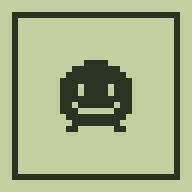
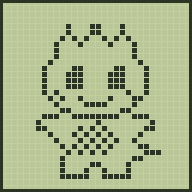
Add files via upload

diff --git a/pet.js b/pet.js
@@ -1,50 +1,153 @@
 'use strict';
-// Bichinhos em pixel art 12x12, desenhados em canvas (sem imagens externas).
-// Clássico: um só tom (cor do tema). Moderno: colorido, com paleta lida das variáveis --m-* do style.css.
+// Sprites e funções de desenho do TamaTask.
+//  - CLÁSSICO: LCD de pontos (24x26 para o bichinho, 18x22 para o ovo). '#' = aceso, '+' = meio-tom, '.' = apagado.
+//  - MODERNO: pixel art colorida (12x12). Letras = cores da paleta --m-* do style.css.
 (() => {
-  const CLASSICO = [
-    '....####....', '..########..', '.##########.', '############', '###.####.###', '###.####.###',
-    '############', '##.######.##', '###......###', '.##########.', '..########..', '.##......##.'
+  /* ===== CLÁSSICO (pode editar os desenhos à mão) ===== */
+  const C_PET = [
+    '.......#...##...#.......',
+    '.......#...##...#.......',
+    '......#.#.#..#.#.#......',
+    '.....#...#....#...#.....',
+    '.....#............#.....',
+    '.....#............#.....',
+    '....#..............#....',
+    '...#....##.....##...#...',
+    '...#...###....###...#...',
+    '...#...###....###...#...',
+    '...#...###....###...#...',
+    '...#.++..........++.#...',
+    '....#++..#....#..++#....',
+    '.....#....####....#.....',
+    '......##........##......',
+    '...###..########..###...',
+    '..#........++........#..',
+    '..##.....++++++.....##..',
+    '....#...++++++++...#....',
+    '.....#..++++++++..#.....',
+    '......#.++++++++...##...',
+    '.......#.++++++.....###.',
+    '......#...........##....',
+    '......#....##....#......',
+    '......#...#..#...#......',
+    '......#####..#####......'
   ];
-  // k = corpo escuro, c = rosto creme, e = olhos/boca, p = bochechas, y = amarelo (orelhas por dentro, pezinhos)
-  const MODERNO = [
+  const C_PET_PISCA = [
+    '.......#...##...#.......',
+    '.......#...##...#.......',
+    '......#.#.#..#.#.#......',
+    '.....#...#....#...#.....',
+    '.....#............#.....',
+    '.....#............#.....',
+    '....#..............#....',
+    '...#................#...',
+    '...#................#...',
+    '...#...###....###...#...',
+    '...#................#...',
+    '...#.++..........++.#...',
+    '....#++..#....#..++#....',
+    '.....#....####....#.....',
+    '......##........##......',
+    '...###..########..###...',
+    '..#........++........#..',
+    '..##.....++++++.....##..',
+    '....#...++++++++...#....',
+    '.....#..++++++++..#.....',
+    '......#.++++++++...##...',
+    '.......#.++++++.....###.',
+    '......#...........##....',
+    '......#....##....#......',
+    '......#...#..#...#......',
+    '......#####..#####......'
+  ];
+  const C_OVO = [
+    '..................',
+    '......######......',
+    '.....#......#.....',
+    '....#........#....',
+    '...#..........#...',
+    '...#..........#...',
+    '..#............#..',
+    '..#..##....##..#..',
+    '.#...##....##...#.',
+    '.#..............#.',
+    '.#..............#.',
+    '.#..............#.',
+    '.##.#.#.#.#.#.#.#.',
+    '.#.#.#.#.#.#.#.##.',
+    '.#..............#.',
+    '.#..............#.',
+    '.#..##.....##...#.',
+    '..#.##.....##..#..',
+    '..#............#..',
+    '...##........##...',
+    '.....###..###.....',
+    '........##........'
+  ];
+  const C_RACHA = [[9, 5], [8, 6], [9, 7], [10, 8], [9, 9], [8, 10], [9, 11], [10, 12], [9, 13]];
+
+  /* ===== MODERNO ===== */
+  // k = corpo escuro, c = rosto creme, e = olhos/boca, p = bochechas, y = amarelo, w = brilho
+  const M_PET = [
     '..kk....kk..', '.kyyk..kyyk.', '.kkkkkkkkkk.', 'kkkkkkkkkkkk', 'kkcccccccckk', 'kcceccccecck',
     'kcceccccecck', 'kcpccccccpck', 'kkccceeccckk', '.kkccccccck.', '..kkkkkkkk..', '..yy....yy..'
   ];
-  const OVO_MODERNO = [
+  const M_OVO = [
     '...kkkk...', '..kyyyyk..', '.kyyyyyyk.', '.kywyyyyk.', 'kyyyyyyyyk', 'kypyyyyyyk',
     'kyyyyyypyk', 'kyyyyyyyyk', '.kyypyyyk.', '.kyyyyyyk.', '..kyyyyk..', '...kkkk...'
   ];
-  window.TAMA_SPRITE = CLASSICO;                         // usado pelo ovo clássico
-  window.TAMA_MODERNO = { pet: MODERNO, ovo: OVO_MODERNO };
-  window.tamaModerno = () => document.documentElement.dataset.tema === 'moderno';
-  window.tamaCor = () => getComputedStyle(document.documentElement).getPropertyValue('--pet').trim() || '#2b3322';
-  window.tamaCores = () => {
-    const cs = getComputedStyle(document.documentElement);
-    const g = (v, d) => cs.getPropertyValue(v).trim() || d;
-    return { k: g('--m-k', '#2d2a55'), e: g('--m-e', '#14122b'), c: g('--m-c', '#fff1cf'),
-             y: g('--m-y', '#ffd95a'), p: g('--m-p', '#ff8f8f'), w: '#ffffff' };
+  const M_RACHA = [[5, 2], [4, 3], [5, 4], [4, 5], [5, 6], [6, 7], [5, 8], [6, 9]];
+
+  const raiz = document.documentElement;
+  const TAMA = window.TAMA = {
+    mod: () => raiz.dataset.tema === 'moderno',
+    cor: () => getComputedStyle(raiz).getPropertyValue('--pet').trim() || '#2b3322',
+    cores() {
+      const cs = getComputedStyle(raiz);
+      const g = (v, d) => cs.getPropertyValue(v).trim() || d;
+      return { k: g('--m-k', '#2d2a55'), e: g('--m-e', '#14122b'), c: g('--m-c', '#fff1cf'),
+               y: g('--m-y', '#ffd95a'), p: g('--m-p', '#ff8f8f'), w: '#ffffff' };
+    },
+    // Clássico: cada ponto é um quadradinho separado (efeito LCD). Moderno: pixels sólidos.
+    pintar(ctx, rows, x0, y0, cell, cores) {
+      const cor = cores ? null : TAMA.cor();
+      const gap = !cores && cell >= 3 ? 1 : 0;
+      rows.forEach((r, j) => {
+        for (let i = 0; i < r.length; i++) {
+          const c = r[i];
+          if (c === '.') continue;
+          if (c === '+' && (x0 + i + y0 + j) % 2) continue;      // meio-tom em xadrez
+          ctx.fillStyle = cores ? cores[c] : cor;
+          ctx.fillRect((x0 + i) * cell, (y0 + j) * cell, cell - gap, cell - gap);
+        }
+      });
+    },
+    // Pontos "apagados" da tela de LCD (bem fracos)
+    fantasma(ctx, cols, linhas, cell) {
+      ctx.globalAlpha = 0.09;
+      ctx.fillStyle = TAMA.cor();
+      for (let y = 0; y < linhas; y++) for (let x = 0; x < cols; x++) ctx.fillRect(x * cell, y * cell, cell - 1, cell - 1);
+      ctx.globalAlpha = 1;
+    },
+    classico: { pet: C_PET, pisca: C_PET_PISCA, ovo: C_OVO, racha: C_RACHA },
+    moderno: { pet: M_PET, ovo: M_OVO, racha: M_RACHA }
   };
 
+  /* ===== Bichinho do cabeçalho ===== */
   const cv = document.getElementById('pet');
   if (!cv) return;
   const ctx = cv.getContext('2d');
-  let f = 0;   // 0 = normal, 1 = piscando e 1px mais baixo
+  let f = 0;   // 0 = normal, 1 = piscando e 1 ponto mais baixo
 
-  function quadro(rows, mod) {
-    if (!f) return rows;
-    return rows.map((r, i) => (mod ? (i === 5 ? r.replace(/e/g, 'c') : r) : (i === 4 ? '############' : r)));
-  }
   function desenhar() {
+    const m = TAMA.mod();
+    const t = m ? TAMA.moderno : TAMA.classico;
+    let rows = t.pet;
+    if (f) rows = m ? t.pet.map((r, i) => (i === 5 ? r.replace(/e/g, 'c') : r)) : t.pisca;
+    const larg = m ? 72 : 96, alt = m ? 81 : 108;          // tamanho do canvas por tema
+    if (cv.width !== larg || cv.height !== alt) { cv.width = larg; cv.height = alt; }
     ctx.clearRect(0, 0, cv.width, cv.height);
-    const mod = window.tamaModerno();
-    const cores = mod ? window.tamaCores() : null;
-    const cor = window.tamaCor();
-    quadro(mod ? MODERNO : CLASSICO, mod).forEach((r, y) => [...r].forEach((c, x) => {
-      if (c === '.') return;
-      ctx.fillStyle = cores ? cores[c] : cor;
-      ctx.fillRect(x, y + f, 1, 1);
-    }));
+    TAMA.pintar(ctx, rows, 0, f, m ? 6 : 4, m ? TAMA.cores() : null);
   }
   desenhar();
   window.addEventListener('tema', desenhar);

diff --git a/egg.js b/egg.js
@@ -2,56 +2,53 @@
 // Ovo de Tamagotchi: balança, racha, pisca a tela e "nasce" o bichinho do tema atual.
 (() => {
   const cv = document.getElementById('egg');
-  if (!cv) return;
+  if (!cv || !window.TAMA) return;
+  const T = window.TAMA;
   const ctx = cv.getContext('2d');
-  const OVO = [
-    '...####...', '..######..', '.########.', '.########.', '##########', '###.##.###',
-    '##########', '##########', '.##.##.##.', '.########.', '..######..', '...####...'
-  ];
-  const RACHA = [[5, 2], [4, 3], [5, 4], [4, 5], [5, 6], [6, 7], [5, 8], [6, 9]];
   const parado = matchMedia('(prefers-reduced-motion: reduce)').matches;
   let rodando = false;
   let ultimo = () => ovo(0, 0);   // o que redesenhar ao trocar de tema
 
-  const limpar = () => ctx.clearRect(0, 0, 16, 16);
-  // Sprites do tema atual (clássico: um tom; moderno: paleta colorida)
-  function sprites() {
-    if (window.tamaModerno()) return { pet: window.TAMA_MODERNO.pet, ovo: window.TAMA_MODERNO.ovo, cores: window.tamaCores() };
-    return { pet: window.TAMA_SPRITE || [], ovo: OVO, cores: null };
+  // Configuração por tema: tamanho do ponto, grade, posição dos sprites, saltinho do bichinho
+  function cfg() {
+    if (T.mod()) return { m: true, cell: 10, g: 16, ox: 3, oy: 2, px: 2, py: 3, q: [-3, -1, -2, 0, -1, 0, 0, 0],
+                          pet: T.moderno.pet, ovo: T.moderno.ovo, racha: T.moderno.racha, cores: T.cores(),
+                          brilhos: [[0, 2], [15, 1], [1, 14], [14, 13]] };
+    return { m: false, cell: 5, g: 32, ox: 7, oy: 5, px: 4, py: 5, q: [-5, -2, -3, 0, -2, 0, 0, 0],
+             pet: T.classico.pet, ovo: T.classico.ovo, racha: T.classico.racha, cores: null,
+             brilhos: [[2, 4], [29, 3], [3, 27], [28, 25]] };
   }
-  function pintar(rows, x, y, cores) {
-    const cor = window.tamaCor();
-    rows.forEach((r, j) => [...r].forEach((c, i) => {
-      if (c === '.') return;
-      ctx.fillStyle = cores ? cores[c] : cor;
-      ctx.fillRect(x + i, y + j, 1, 1);
-    }));
+  function limpar(c) {
+    ctx.clearRect(0, 0, cv.width, cv.height);
+    if (!c.m) T.fantasma(ctx, c.g, c.g, c.cell);
   }
   function ovo(dx, rachaduras) {
-    const s = sprites();
-    limpar();
-    pintar(s.ovo, 3 + dx, 2, s.cores);
-    for (let i = 0; i < rachaduras; i++) {
-      const x = 3 + dx + RACHA[i][0], y = 2 + RACHA[i][1];
-      if (s.cores) { ctx.fillStyle = s.cores.k; ctx.fillRect(x, y, 1, 1); }   // moderno: rachadura escura
-      else ctx.clearRect(x, y, 1, 1);                                          // clássico: pixel apagado
+    const c = cfg();
+    limpar(c);
+    T.pintar(ctx, c.ovo, c.ox + dx, c.oy, c.cell, c.cores);
+    ctx.fillStyle = c.m ? c.cores.k : T.cor();           // rachaduras: pontos escuros
+    const gp = c.m ? 0 : 1;
+    for (let i = 0; i < rachaduras && i < c.racha.length; i++) {
+      ctx.fillRect((c.ox + dx + c.racha[i][0]) * c.cell, (c.oy + c.racha[i][1]) * c.cell, c.cell - gp, c.cell - gp);
     }
   }
+  function brilhar(c) {
+    ctx.fillStyle = c.m ? c.cores.p : T.cor();
+    const forma = c.m ? [[0, 0]] : [[0, 0], [-1, 0], [1, 0], [0, -1], [0, 1]];   // clássico: "+" de 5 pontos
+    const gp = c.m ? 0 : 1;
+    c.brilhos.forEach(([x, y]) => forma.forEach(([dx, dy]) =>
+      ctx.fillRect((x + dx) * c.cell, (y + dy) * c.cell, c.cell - gp, c.cell - gp)));
+  }
   function nascer(pronto) {
-    const quique = [-3, -1, -2, 0, -1, 0, 0, 0];
-    const brilhos = [[0, 2], [15, 1], [1, 14], [14, 13]];
     let k = 0;
     const t = setInterval(() => {
-      const s = sprites();
-      limpar();
-      pintar(s.pet, 2, 3 + quique[k], s.cores);
-      if (k % 2 === 0) {
-        ctx.fillStyle = s.cores ? s.cores.p : window.tamaCor();
-        brilhos.forEach(([x, y]) => ctx.fillRect(x, y, 1, 1));
-      }
-      if (++k >= quique.length) {
+      const c = cfg();
+      limpar(c);
+      T.pintar(ctx, c.pet, c.px, c.py + c.q[k], c.cell, c.cores);
+      if (k % 2 === 0) brilhar(c);
+      if (++k >= c.q.length) {
         clearInterval(t); rodando = false;
-        ultimo = () => { const z = sprites(); limpar(); pintar(z.pet, 2, 3, z.cores); };
+        ultimo = () => { const z = cfg(); limpar(z); T.pintar(ctx, z.pet, z.px, z.py, z.cell, z.cores); };
         pronto();
       }
     }, 110);

diff --git a/index.html b/index.html
@@ -18,8 +18,26 @@
 <body>
 <main>
   <header>
-    <canvas id="pet" width="12" height="13" aria-hidden="true"></canvas>
-    <h1>Tama<span>Task</span></h1>
+    <canvas id="pet" width="96" height="108" aria-hidden="true"></canvas>
+    <h1>
+      <span class="logo-txt">Tama<span>Task</span></span>
+      <svg class="logo-svg" viewBox="0 0 244 74" aria-hidden="true" focusable="false">
+        <defs>
+          <linearGradient id="lg" gradientUnits="userSpaceOnUse" x1="14" y1="0" x2="224" y2="0">
+            <stop offset="0" stop-color="#ff4fa3"/><stop offset=".2" stop-color="#ff8a3d"/>
+            <stop offset=".4" stop-color="#ffd23f"/><stop offset=".6" stop-color="#4fd67d"/>
+            <stop offset=".8" stop-color="#3fb7ff"/><stop offset="1" stop-color="#8a63ff"/>
+          </linearGradient>
+          <text id="lt" x="14" y="52" font-size="46" font-weight="900" textLength="210" lengthAdjust="spacingAndGlyphs"
+                font-family="ui-rounded, 'SF Pro Rounded', system-ui, -apple-system, sans-serif"><tspan>T</tspan><tspan dy="-3">a</tspan><tspan dy="4">m</tspan><tspan dy="-3">a</tspan><tspan dy="3">T</tspan><tspan dy="-3">a</tspan><tspan dy="3">s</tspan><tspan dy="-2">k</tspan></text>
+        </defs>
+        <use href="#lt" x="4" y="5" class="l-sombra"/>
+        <use href="#lt" class="l-out"/>
+        <use href="#lt" class="l-ring"/>
+        <use href="#lt" fill="url(#lg)"/>
+        <polygon class="l-star" points="232,6 235,14 243,17 235,20 232,28 229,20 221,17 229,14"/>
+      </svg>
+    </h1>
     <button id="tema" type="button" aria-label="Mudar o visual">Tema</button>
   </header>
   <nav id="tabs">
@@ -53,7 +71,7 @@
   </section>
 
   <section id="sorteio" hidden>
-    <canvas id="egg" width="16" height="16" aria-label="Ovo: toque para sortear"></canvas>
+    <canvas id="egg" width="160" height="160" aria-label="Ovo: toque para sortear"></canvas>
     <label>Quantas tarefas sortear
       <select id="qtd">
         <option>1</option><option>2</option><option selected>3</option><option>4</option><option>5</option>

diff --git a/style.css b/style.css
@@ -29,11 +29,18 @@ body{min-height:100vh;min-height:100dvh;background-color:var(--bg);background-im
 main{max-width:560px;margin:0 auto;padding:16px}
 
 header{display:flex;align-items:center;gap:12px;margin-bottom:16px}
-#pet{width:60px;height:65px;image-rendering:pixelated;flex:none}
-h1{font:400 40px/1 TamaPixel,monospace;margin:0;color:var(--px);text-shadow:4px 4px 0 var(--mut)}
-h1 span{background:var(--px);color:var(--bg);padding:0 4px 0 6px;margin-left:4px;text-shadow:none}
-[data-tema="moderno"] h1{font:900 34px/1 var(--font);color:var(--acc);text-shadow:3px 3px 0 var(--px)}
-[data-tema="moderno"] h1 span{background:var(--sel);color:var(--px);border:var(--bw) solid var(--px);border-radius:12px;padding:2px 8px;margin-left:6px}
+#pet{image-rendering:pixelated;flex:none}
+h1{font:400 40px/1 TamaPixel,monospace;margin:0;color:var(--px);text-shadow:4px 4px 0 var(--mut);flex:1;min-width:0}
+h1 .logo-txt span{background:var(--px);color:var(--bg);padding:0 4px 0 6px;margin-left:4px;text-shadow:none}
+@media (max-width:420px){h1{font-size:30px}}
+/* Logo do visual moderno (SVG): contorno, anel branco e preenchimento em degradê */
+.logo-svg{display:none;width:100%;max-width:244px;height:auto}
+[data-tema="moderno"] h1{text-shadow:none}
+[data-tema="moderno"] .logo-svg{display:block}
+[data-tema="moderno"] .logo-txt{position:absolute;width:1px;height:1px;overflow:hidden;clip:rect(0 0 0 0);white-space:nowrap}
+.l-sombra,.l-out{fill:var(--px);stroke:var(--px);stroke-width:12;stroke-linejoin:round}
+.l-ring{fill:#fff;stroke:#fff;stroke-width:6;stroke-linejoin:round}
+.l-star{fill:#ffd95a;stroke:var(--px);stroke-width:2;stroke-linejoin:round}
 #tema{margin-left:auto;align-self:flex-start;padding:6px 8px;font-size:10px;box-shadow:var(--sh2)}
 [data-tema="moderno"] #tema{font-size:12px}
 #tema:active{box-shadow:none}

diff --git a/sw.js b/sw.js
@@ -1,5 +1,5 @@
 // Network-first: com internet, sempre pega a versão mais nova; sem internet, usa o cache.
-const CACHE = 'tamatask-v5';
+const CACHE = 'tamatask-v6';
 const ARQUIVOS = ['./', 'index.html', 'style.css', 'app.js', 'tema.js', 'pet.js', 'egg.js', 'pixel.woff',
                   'manifest.webmanifest', 'icon-180.png', 'icon-192.png', 'icon-512.png'];
 
